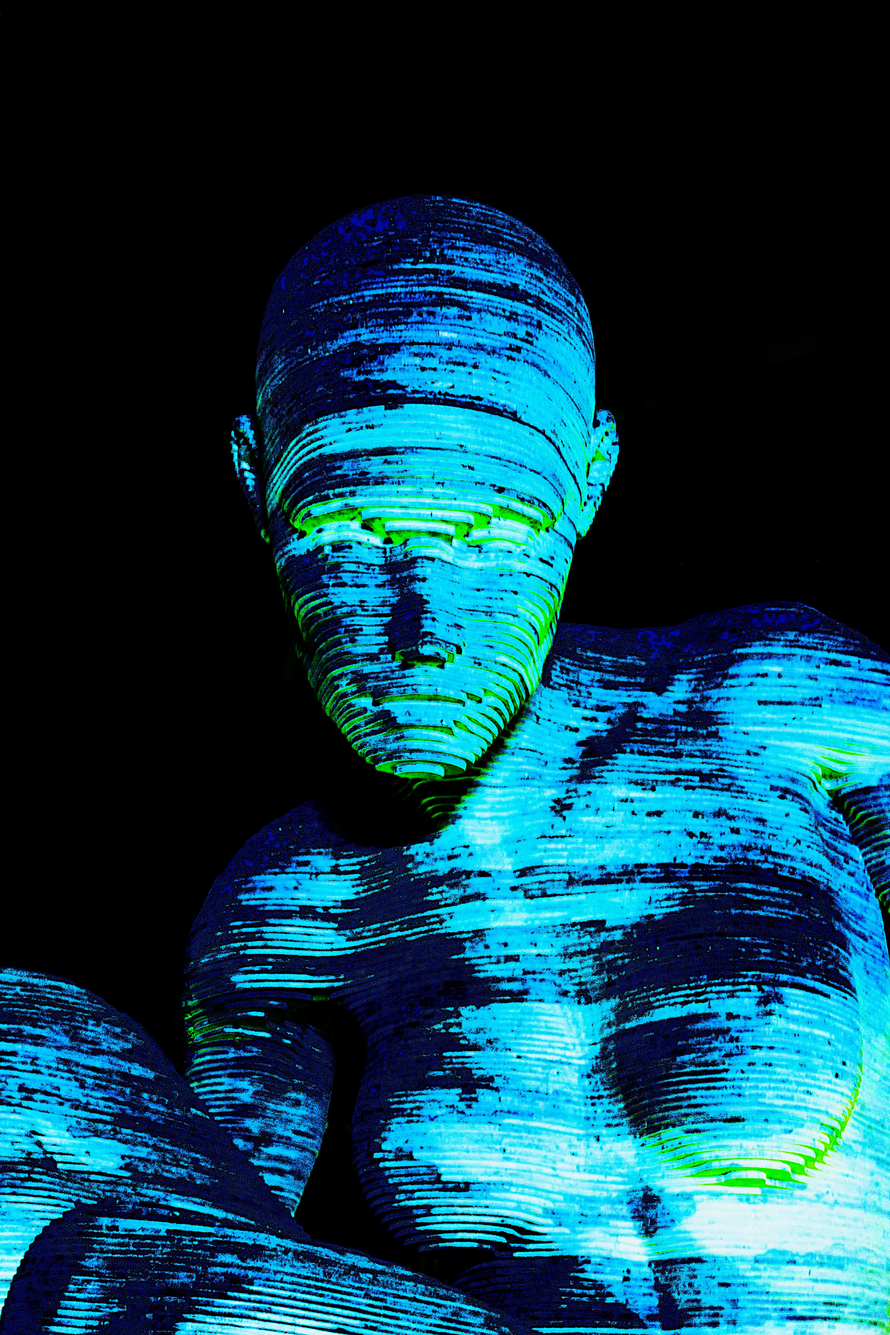
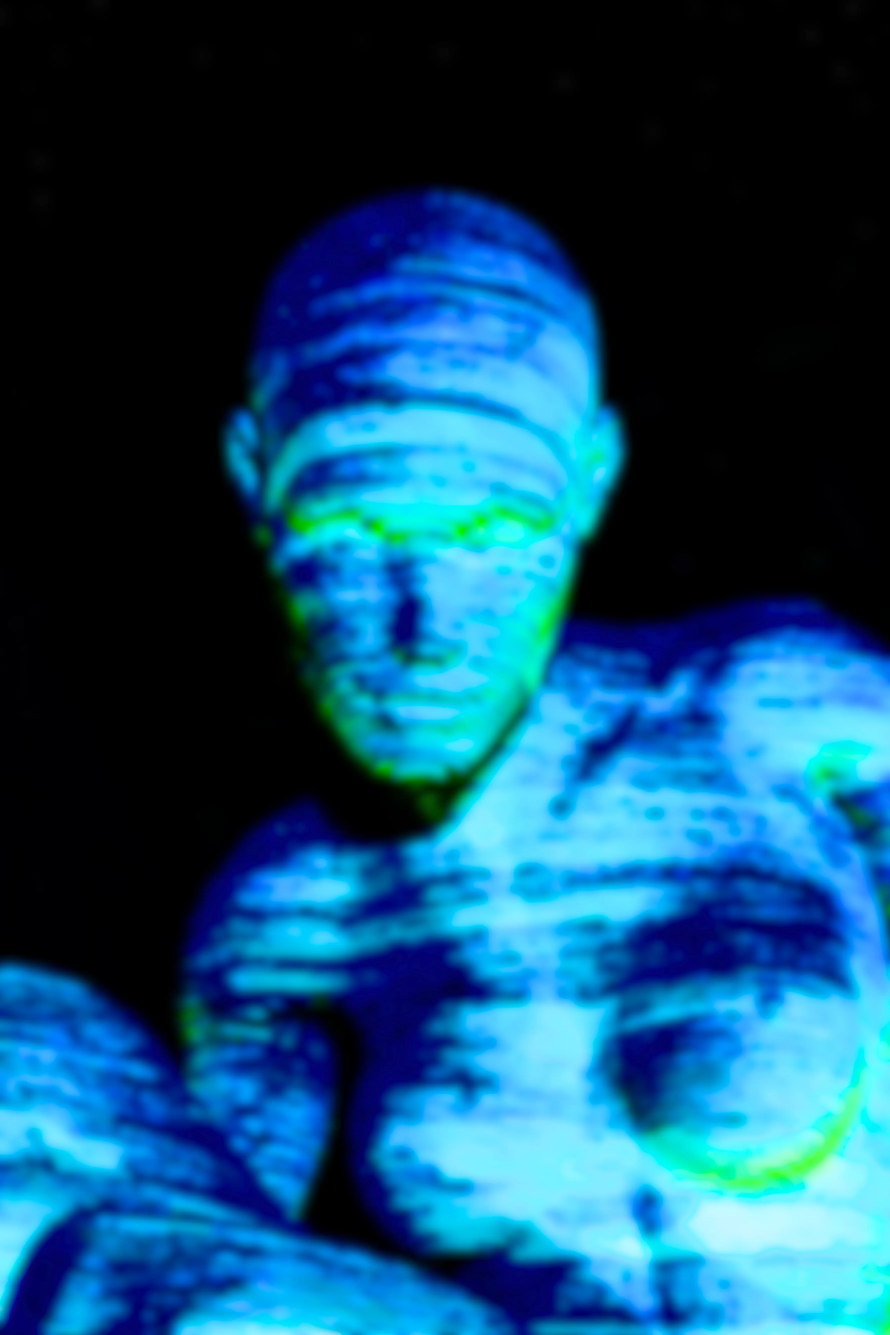
edited background image to include blur and higher saturation as to no longer need filter blur saturate etc css + minor refactor

diff --git a/app/src/App.css b/app/src/App.css
@@ -65,7 +65,8 @@
 }
 
 html {
-    width: 100vw;
+    position: relative;
+    width: 100%;
     height: 100vh;
     background-color: var(--background-color);
     overflow-x: hidden;
@@ -73,7 +74,7 @@ html {
 
     &::before {
         content: '';
-        z-index: -1;
+        z-index: 0;
         position: absolute;
         pointer-events: none;
         top: 0;
@@ -83,9 +84,8 @@ html {
         background-image: url('assets/images/bg.webp');
         background-size: cover;
         background-position: center;
-        background-attachment: scroll;
-        opacity: 0.4;
-        filter: blur(16px);
+        background-attachment: fixed;
+        opacity: 0.6;
     }
 }
 
@@ -243,9 +243,9 @@ li {
 
     &::before {
         content: '';
-        pointer-events: none;
-        z-index: -1;
+        z-index: 0;
         position: absolute;
+        pointer-events: none;
         top: 0;
         left: 0;
         width: 100%;
@@ -254,8 +254,7 @@ li {
         background-size: cover;
         background-position: center;
         background-attachment: fixed;
-        opacity: 0.4;
-        filter: blur(16px);
+        opacity: 0.6;
     }
 }
 
